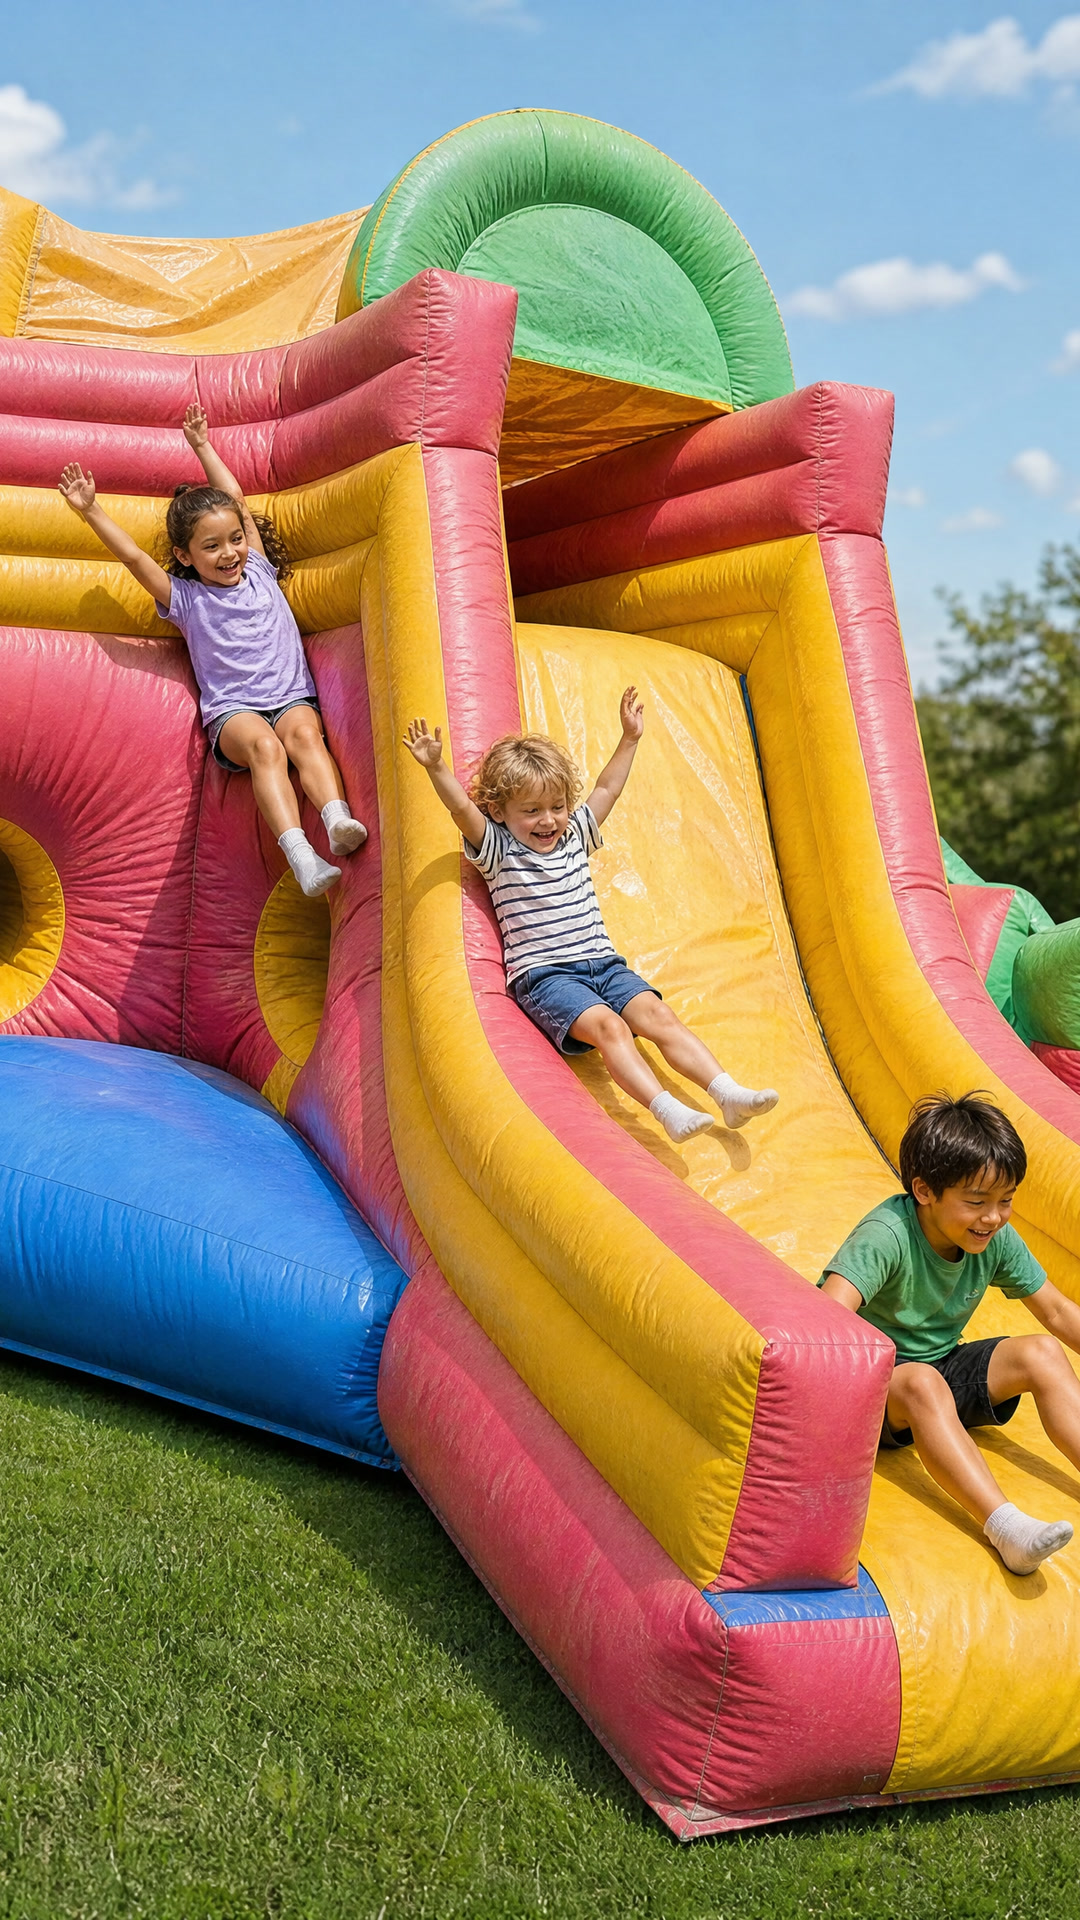
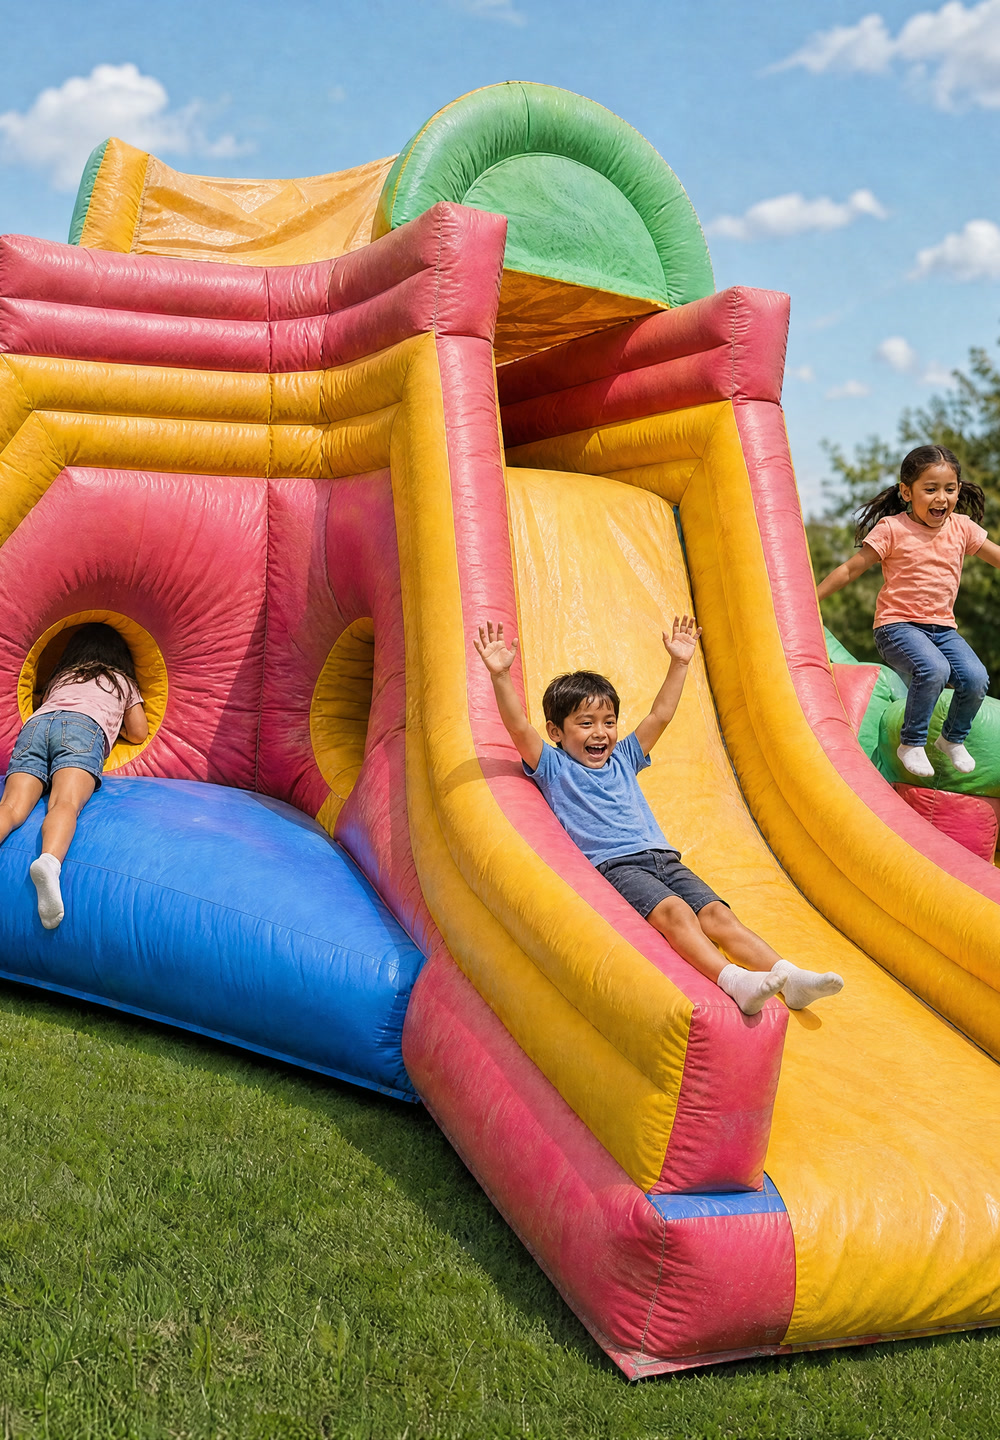
Hero con niños chilenos, navbar amarillo y precio base por 3 horas
- Nueva imagen 4K del hero: un niño baja por el resbalín, otra entra al túnel
  y otra salta en la sección derecha.
- Navbar en amarillo sol (el azul noche queda en la barra de confianza).
- «Desde $40.000 por 3 horas» en hero, sello y descripción SEO.
- Sin la etiqueta «Imagen referencial».

diff --git a/src/config/site.ts b/src/config/site.ts
@@ -6,7 +6,7 @@ export const SITE = {
   lang: "es-CL",
   defaultTitle: "Saltabum · Arriendo de juegos inflables en Valparaíso",
   defaultDescription:
-    "Arriendo de juegos inflables en la Región de Valparaíso desde $40.000 por 4 horas, con montaje, anclaje y retiro. Cumpleaños, empresas, colegios y municipios.",
+    "Arriendo de juegos inflables en la Región de Valparaíso desde $40.000 por 3 horas, con montaje, anclaje y retiro. Cumpleaños, empresas, colegios y municipios.",
   defaultOgImage: "/og-default.jpg",
   // Mensaje prellenado al abrir WhatsApp desde el sitio
   whatsappDefaultMessage: "¡Hola Saltabum! Quiero más información.",

diff --git a/src/design/data.ts b/src/design/data.ts
@@ -9,8 +9,9 @@ export const PRODUCTO = {
   precio: "$[XX.XXX]",
 };
 
-// Precio base de los inflables (bloque de 4 horas).
+// Precio base de los inflables y su bloque de horas.
 export const DESDE = "$40.000";
+export const DESDE_HORAS = "3 horas";
 
 export type Comuna = {
   nombre: string;
